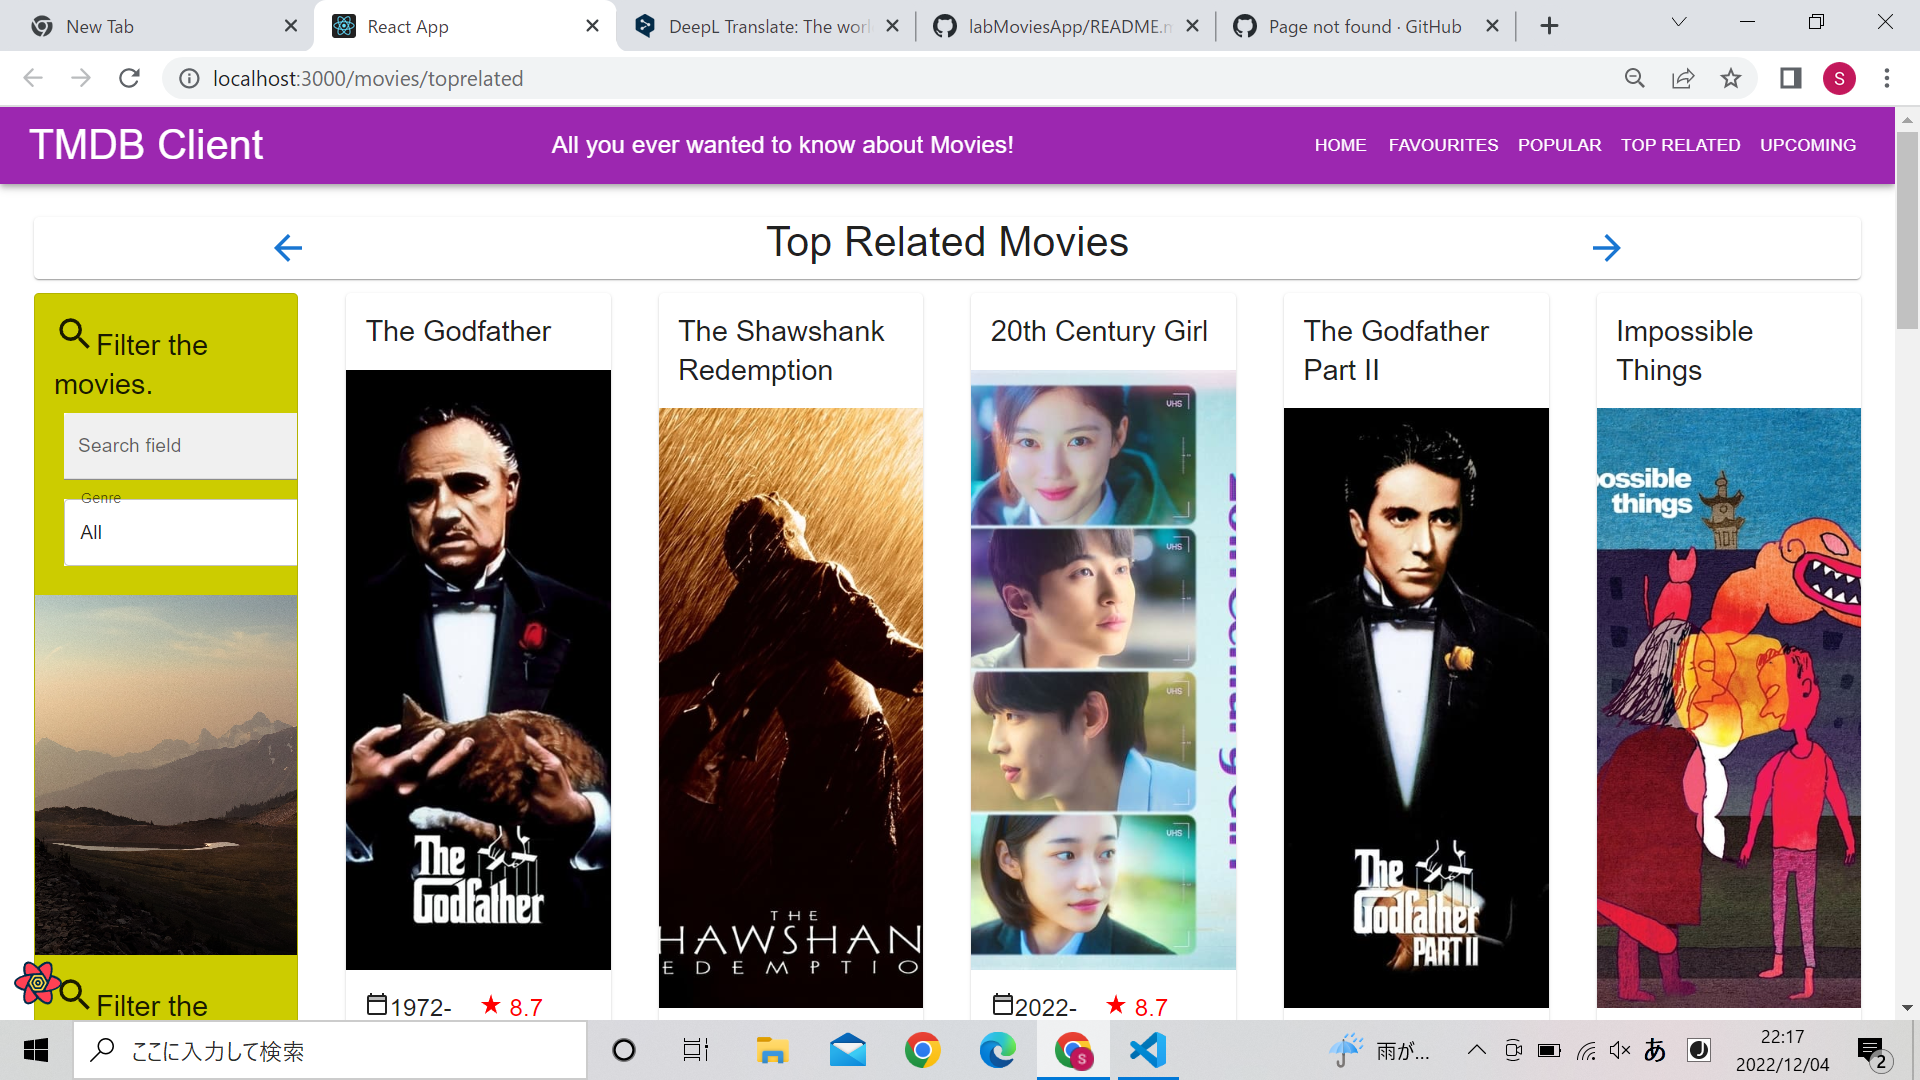
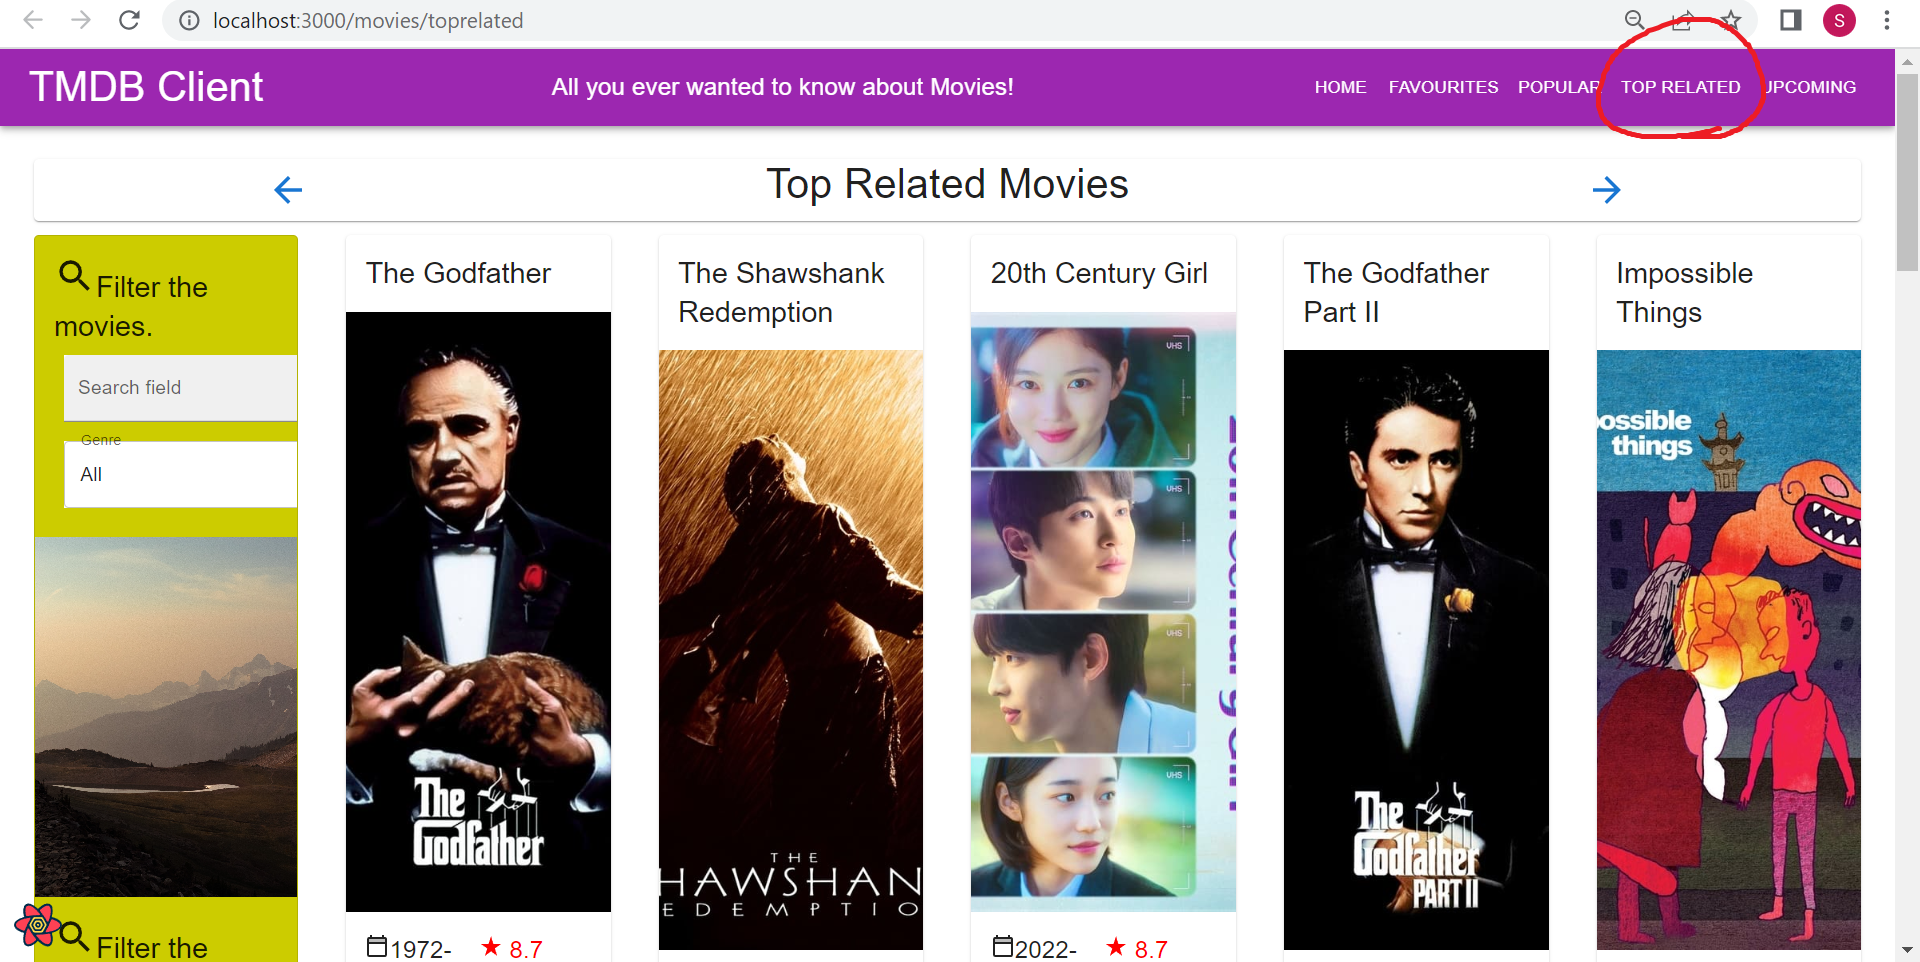
read me

diff --git a/moviesApp/README.md b/moviesApp/README.md
@@ -38,36 +38,30 @@ e.g.
 
 ### Component catalogue.
 
-[ Insert a screenshot from the Storybook UI, and highlight the stories that relate to your __new/modified components__ - see the example screenshot below.] .......
 
-![ ](./src/images/82.png)
->This is the current popular movies page.
+![ ](./src/images/85.png)
+>Shows home page. As circled in red, the letters are red when the rating is 7 or higher, and blue when the rating is less than 7. 
 
 ### UI Design.
 
-[ Insert screenshots of the __new app pages__ you developed (including modified existing pages), Have an appropriate caption for each one (see example below).
 
-![ ](./images/detail.png)
+![ ](./src/images/82.png)
 
->Shows detailed information on a movie. Clicking the 'Reviews' floating action button will display extracts from critic reviews.
+>Shows Most Popular Movies page. Clicking the 'POPULAR' in the header, this page appears. 
 
-![ ](./images/review.png)
+![ ](./src/images/83.png)
 
->Shows the full review for a movie.
+>Shows Top Relatad Movies page. Clicking the 'TOP RELATED' in the header, this page appears. 
+
+![ ](./src/images/84.png)
+
+>Shows Upcoming Movies page. Clicking the 'UPCOMING' in the header, this page appears. 
 
 ### Routing.
 
-[ List the __new routes__ supported by your app and state the associated page.]
+Nothing.
 
-e.g. 
-
-+ /actors - displays a list of popular actors.
-+ /actors/:id - shows details about a particular actor.
-+ /actors/:id/movies (protected) - an actor's movie credits.
-+ etc.
-
-[If relevant, state what aspects of your app are protected/private (i.e. require authentication) and what is public.]
 
 ## Independent learning (If relevant).
 
-[ Itemize the technologies/techniques you researched independently and adopted in your project, i.e. aspects not covered in the lectures/labs. Mention the source code filenames that illustrate these  (code excerpts are not required) and provide references to the online resources that helped you (articles/blogs).
+Nothing.
